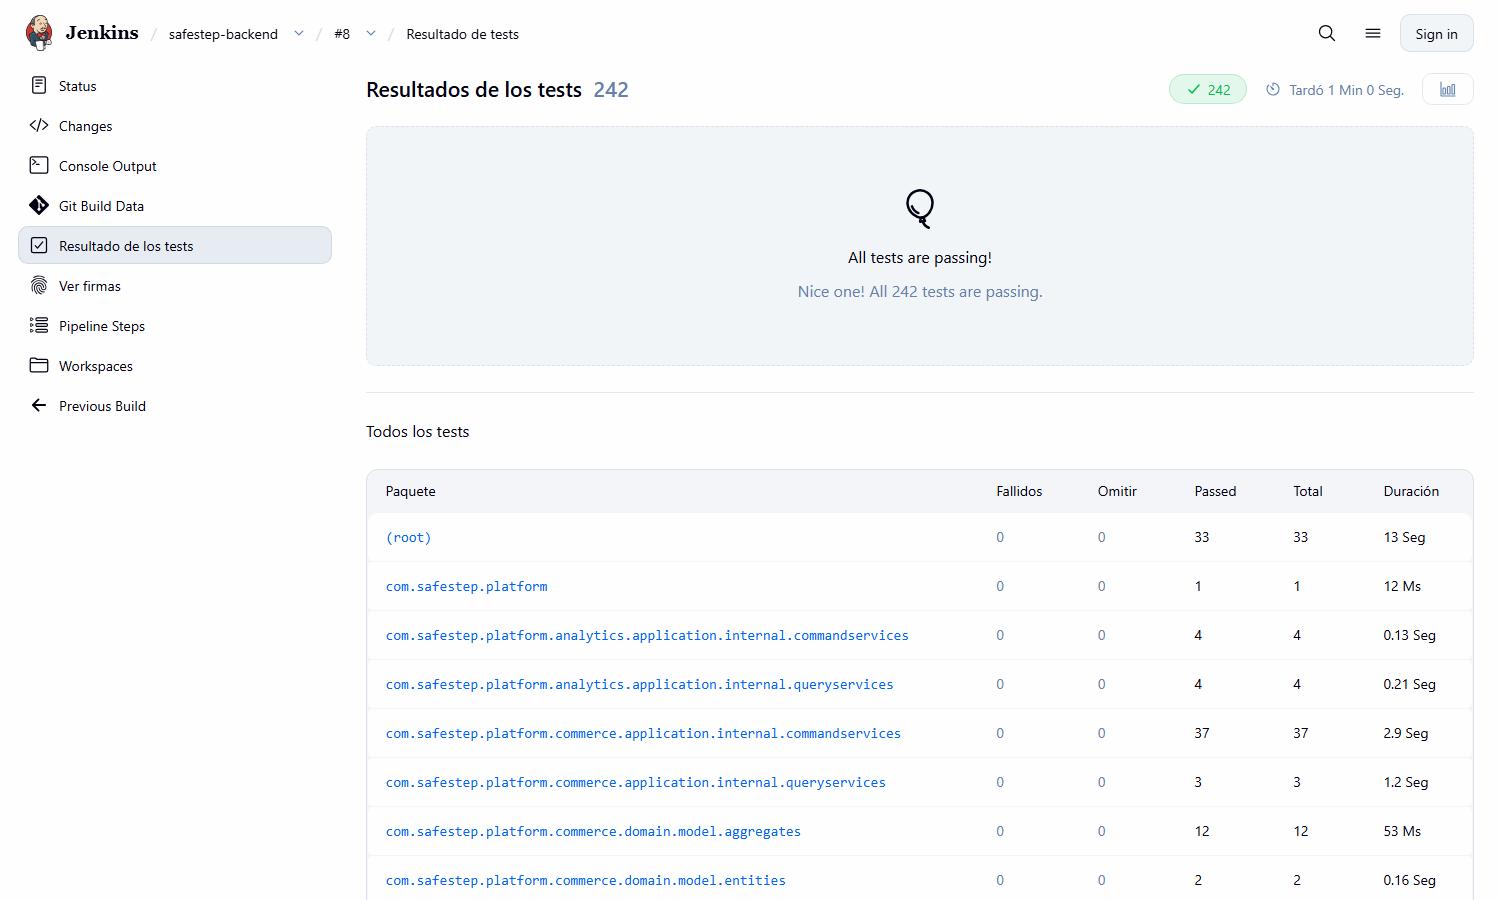
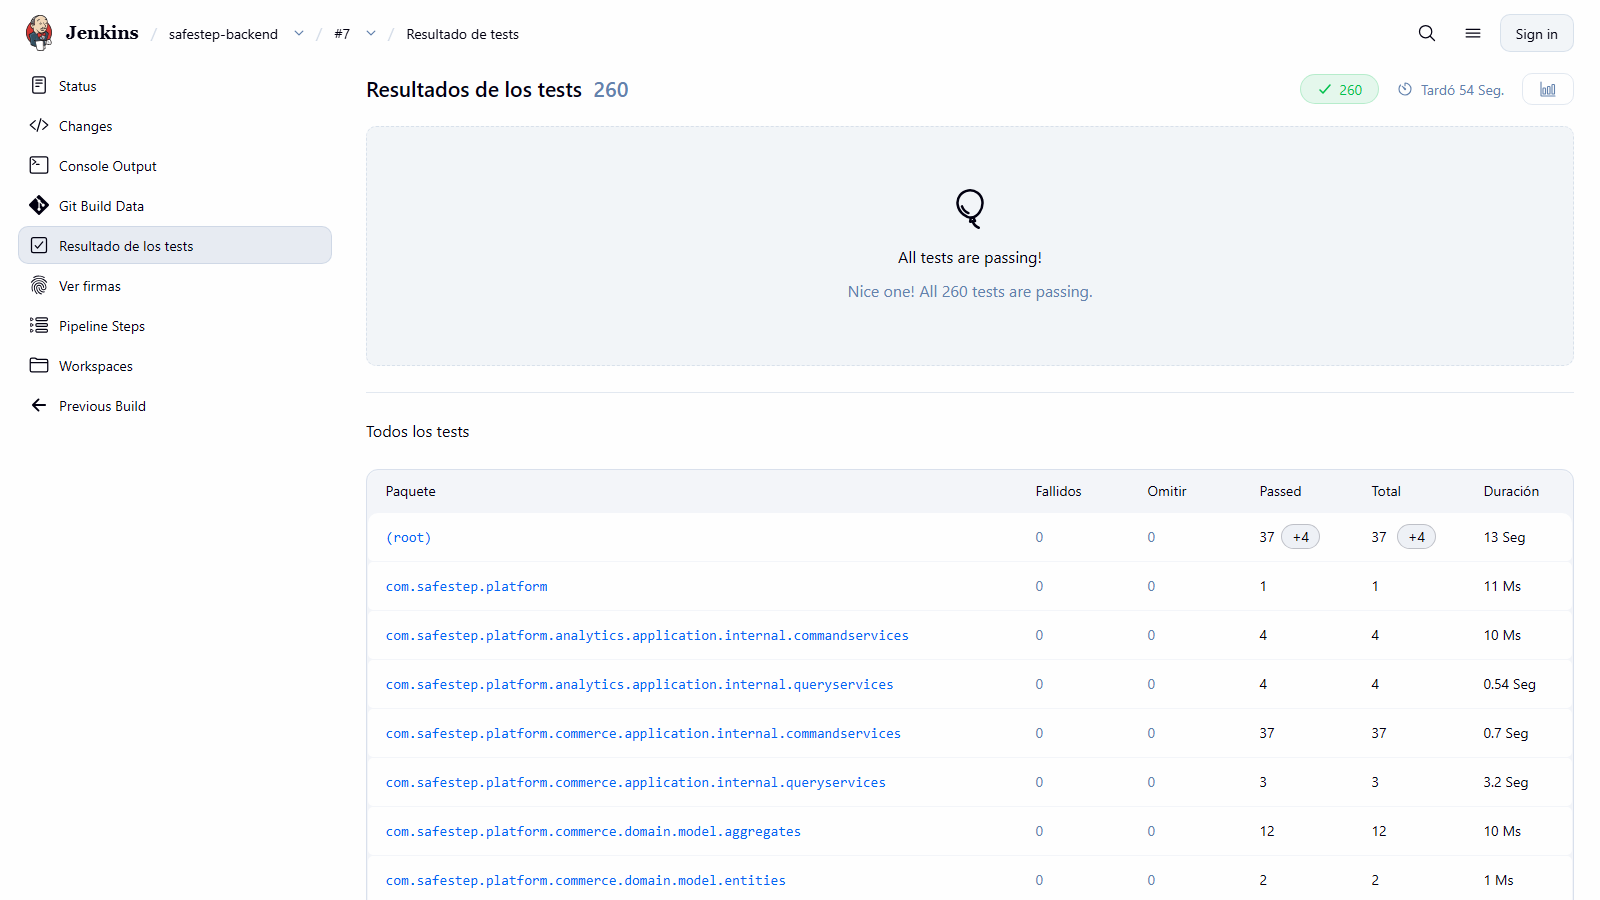
docs(report): update the test, coverage and pipeline figures to Jenkins build 7

diff --git a/markdown/content/chapter-6/6-1-Testing-Suites-&-Validation.md b/markdown/content/chapter-6/6-1-Testing-Suites-&-Validation.md
@@ -9,16 +9,16 @@ Esta sección documenta las suites de prueba que verifican SafeStep. La estrateg
 | BDD de aceptación | Cucumber-JVM 8.0.4 + Gherkin | `safeStept-backend/src/test/resources/features` | 33 escenarios (5 features) | 33 aprobados, 0 fallidos |
 | Sistema (web) | Selenium WebDriver 4.50 + Cucumber-JVM 8.0.4 | `safeStept-frontend/e2e-tests` | 15 escenarios (5 features) | 15 aprobados, 0 fallidos |
 
-Las 242 pruebas del backend que ejecuta Maven (209 unitarias y de integración con contexto de Spring, más los 33 escenarios BDD) se ejecutaron en Jenkins (ejecución #8) en 60.2 segundos, sin fallos ni omisiones. Antes de la TB1 el repositorio contaba con 54 métodos de prueba en 15 clases; las suites actuales reúnen 209 métodos en 41 clases. Entre ellas está `OpenApiDocumentationIntegrationTest`, con cuatro pruebas que verifican la documentación OpenAPI publicada (5.2.7.14).
+Las 260 pruebas del backend que ejecuta Maven (223 unitarias y de integración con contexto de Spring, más los 37 escenarios BDD) se ejecutaron en Jenkins (ejecución #7, 9 de noviembre de 2026) en 54 segundos, sin fallos ni omisiones. Antes de la TB1 el repositorio contaba con 54 métodos de prueba en 15 clases; las suites actuales reúnen 219 métodos en 43 clases. Desde la ejecución #6 (242 pruebas) se agregaron 18 pruebas: las de la política de recompensas (umbral de 70 % y mitad por cada repetición aprobada) y la que impide que los datos semilla vuelvan a tener caracteres dañados. Entre ellas está `OpenApiDocumentationIntegrationTest`, con cuatro pruebas que verifican la documentación OpenAPI publicada (5.2.7.14).
 
 <div align="center">
   <img src="../../assets/images/chapter-7/jenkins-test-result.png" alt="Resultado de pruebas en Jenkins"/>
-  <p><i><b>Figura 6.1.1.</b> Resultado de las 242 pruebas del backend en Jenkins (ejecución #8). <b>Fuente</b>: Elaboración propia</i></p>
+  <p><i><b>Figura 6.1.1.</b> Resultado de las 260 pruebas del backend en Jenkins (ejecución #7). <b>Fuente</b>: Elaboración propia</i></p>
 </div>
 
 <div align="center">
   <img src="../../assets/images/chapter-6/jenkins-tendencia-pruebas.png" alt="Tendencia de resultados de pruebas en Jenkins"/>
-  <p><i><b>Figura 6.1.2.</b> Tendencia de los resultados de pruebas en Jenkins: las 242 pruebas aprobadas en cada ejecución del entorno actual. <b>Fuente</b>: Elaboración propia</i></p>
+  <p><i><b>Figura 6.1.2.</b> Tendencia de los resultados de pruebas en Jenkins: el salto de 242 a 260 pruebas aprobadas entre las ejecuciones #6 y #7, sin fallos. <b>Fuente</b>: Elaboración propia</i></p>
 </div>
 
 <div align="center">
@@ -72,20 +72,20 @@ void redeemedCoupon_IsUsedOnlyOnce() {
 
 | Medición | Antes de la TB1 | Después |
 |----------|---------------------------|---------|
-| Cobertura de instrucciones (clases medidas) | 44.3 % | **93.8 %** (5,169 de 5,512 instrucciones) |
-| Pruebas del backend | 54 métodos | 242 pruebas |
+| Cobertura de instrucciones (clases medidas) | 44.3 % | **93.9 %** (5,237 de 5,580 instrucciones) |
+| Pruebas del backend | 54 métodos | 260 pruebas |
 
 | Bounded context | Clases medidas | Cobertura |
 |-----------------|----------------|-----------|
-| `analytics` | 3 | 100.0 % |
-| `gamification` | 6 | 100.0 % |
-| `commerce` | 3 | 98.6 % |
+| `analytics` | 5 | 100.0 % |
+| `gamification` | 9 | 100.0 % |
+| `commerce` | 7 | 98.6 % |
 | `shared` | 7 | 94.5 % |
-| `iam` | 17 | 92.0 % |
-| `simulation` | 11 | 91.2 % |
-| `profiles` | 7 | 62.1 % |
+| `iam` | 24 | 92.0 % |
+| `simulation` | 15 | 91.2 % |
+| `profiles` | 10 | 62.1 % |
 
-El contexto `profiles` es el único por debajo del 80 % por sí solo; el umbral se evalúa sobre el conjunto de clases medidas, y la cobertura de `profiles` queda como deuda técnica identificada. SonarQube, que cuenta las líneas y no las instrucciones, reporta 91.5 % de cobertura sobre 1,390 líneas medibles (ver 7.1.2).
+El contexto `profiles` es el único por debajo del 80 % por sí solo; el umbral se evalúa sobre el conjunto de clases medidas, y la cobertura de `profiles` queda como deuda técnica identificada. SonarQube, que cuenta las líneas y no las instrucciones, reporta 91.6 % de cobertura sobre 1,400 líneas medibles (ver 7.1.2).
 
 <div align="center">
   <img src="../../assets/images/chapter-6/jacoco-coverage-report.png" alt="Reporte de cobertura JaCoCo"/>

diff --git a/markdown/content/chapter-7/7-1-ContinuousIntegration.md b/markdown/content/chapter-7/7-1-ContinuousIntegration.md
@@ -76,16 +76,16 @@ Jenkins muestra además las entradas *Declarative: Checkout SCM* y *Declarative:
 | Métrica de SonarQube | Valor |
 |----------------------|-------|
 | Perfil de calidad de Java | *Sonar way extended* (337 reglas) |
-| Líneas de código | 12,858 (17,311 líneas en total) en 370 archivos |
+| Líneas de código | 12,885 (17,376 líneas en total) en 371 archivos |
 | Quality Gate (Sonar way) | **Aprobado** |
-| Cobertura | 91.5 % sobre 1,390 líneas medibles |
+| Cobertura | 91.6 % sobre 1,400 líneas medibles |
 | Duplicación | 0.9 % |
 | Vulnerabilidades | 1 (calificación de seguridad D; es el CSRF deshabilitado a propósito) |
 | Bugs | 0 (calificación de fiabilidad A) |
 | Code smells | 0 (calificación de mantenibilidad A) |
 | Hotspots de seguridad | 0 |
 
-Estas cifras corresponden a la ejecución #6 del entorno actual (versión `1.0.0` en SonarQube, 8 de noviembre de 2026) y reemplazan a las de la ejecución #8 del entorno anterior (9,964 líneas, 91.7 % de cobertura y 207 *code smells*), que se tomaron con otra versión del código y del servidor. Las líneas de código aumentaron porque la limpieza de Checkstyle (6.2.1.1) partió líneas largas con *google-java-format*, y los *code smells* bajaron a cero porque se corrigieron las 86 incidencias que aparecieron al cambiar al perfil *extended* (6.2.1.2).
+Estas cifras corresponden a la ejecución #7 del entorno actual (versión `1.0.0` en SonarQube, 9 de noviembre de 2026) y reemplazan a las de la ejecución #8 del entorno anterior (9,964 líneas, 91.7 % de cobertura y 207 *code smells*), que se tomaron con otra versión del código y del servidor. Las líneas de código aumentaron porque la limpieza de Checkstyle (6.2.1.1) partió líneas largas con *google-java-format*, y los *code smells* bajaron a cero porque se corrigieron las 86 incidencias que aparecieron al cambiar al perfil *extended* (6.2.1.2).
 
 El Quality Gate «Sonar way» evalúa únicamente el **código nuevo**. En el primer análisis del proyecto no existía código nuevo que evaluar y el gate aprobó, por lo que las incidencias existentes se trataron como deuda técnica y se listaron en lugar de ocultarse. En los análisis posteriores el gate evalúa el código nuevo con tres condiciones: cobertura de al menos 80 %, duplicación menor a 3 % y ninguna incidencia nueva. En la ejecución #6 el commit analizado es el mismo que ya había analizado SonarQube en la tercera tanda de correcciones (6.2.1.2), de modo que no hay código nuevo: el gate evalúa solo la condición de incidencias nuevas (0) y aprueba.
 
@@ -134,6 +134,13 @@ La corrección se verificó de tres formas: pruebas nuevas (una unitaria y tres 
 <div align="center">
   <img src="../../assets/images/chapter-7/jenkins-ejecucion-6-extended.png" alt="Vista de etapas de Jenkins con la ejecución 6 en verde y el Quality Gate aprobado"/>
   <p><i><b>Figura 7.1.10.</b> Vista de etapas del job <code>safestep-backend</code>: la ejecución #6 (arriba) pasa todas las etapas con el perfil <i>Sonar way extended</i>, con el Quality Gate <i>Passed</i> y las pruebas sin fallos; la #5 es la ejecución verde de la compuerta de estilo y la #4 la ejecución roja. <b>Fuente</b>: Elaboración propia</i></p>
+</div>
+
+**Ejecución tras la política de recompensas.** El 9 de noviembre de 2026 el backend incorporó en el servidor el umbral de aprobación de 70 % y la reducción a la mitad por cada repetición aprobada (`c79a1be`) y la reparación de los datos semilla (`b6707df`). La ejecución #7, sobre `main` con esas dos confirmaciones, pasó las diez etapas: 260 pruebas aprobadas (18 más que en la #6) sin fallos ni omisiones, cobertura de JaCoCo de 93.9 %, Quality Gate **Passed**, 0 *code smells* y la imagen publicada de nuevo en Docker Hub. Dura 5 min 8 s, más que la #6 porque hay más pruebas y la etapa de construcción de la imagen tardó 1 min 37 s.
+
+<div align="center">
+  <img src="../../assets/images/chapter-7/jenkins-ejecucion-7.png" alt="Vista de etapas de Jenkins con la ejecución 7 en verde"/>
+  <p><i><b>Figura 7.1.11.</b> Página del job <code>safestep-backend</code> tras la ejecución #7: tendencia de pruebas (de 242 a 260 aprobadas) y vista de etapas con todas las etapas en verde. <b>Fuente</b>: Elaboración propia</i></p>
 </div>
 
 **Cómo reproducir el entorno de CI:**

diff --git a/markdown/content/conclusiones.md b/markdown/content/conclusiones.md
@@ -14,7 +14,7 @@ Durante el Sprint 3 se implemento el backend de SafeStep con Spring Boot, Java, 
 
 Durante el Sprint 4 se fortalecio el producto con la implementacion de IAM y pagos con Stripe tanto en frontend como en backend. La autenticacion con JWT, las rutas protegidas, el manejo de perfil de usuario, la integracion con Stripe Checkout y la persistencia en PostgreSQL desplegado en Render hicieron que SafeStep pasara de ser una simulacion academica a una aplicacion web mas cercana a un entorno real. Este sprint tambien permitio validar flujos criticos como registro, inicio de sesion, compra de productos, confirmacion de pago y despliegue publico.
 
-Durante el Sprint 5 el foco se desplazo de construir funcionalidades a demostrar y proteger su calidad. Se incorporaron al Product Backlog el panel de administracion, la gestion de roles y el canje de cupones con SafeCoins (US57 a US61) junto con siete technical stories de pruebas e integracion continua (TS25 a TS31), y se construyeron tres suites automatizadas: 209 pruebas unitarias y de integracion, 33 escenarios BDD con Cucumber y 36 escenarios de API con Karate. La cobertura de instrucciones del codigo de aplicacion paso de 44.3 % a 93.8 % y el build exige ahora un minimo de 80 %. Las pruebas unitarias y BDD se ejecutan dentro de un pipeline de Jenkins que tambien exige el estilo de Google con Checkstyle (falla ante una sola infraccion), verifica la cobertura, analiza el codigo con SonarQube y empaqueta el backend; la ultima ejecucion termino en exito en 3 minutos y 58 segundos. Las pruebas de API se ejecutan contra una instancia local del backend. Ademas, el equipo desplego por su cuenta el frontend, el backend y la base de datos en Render (Static Site, Web Service con Docker y PostgreSQL 18), con CORS restringido al frontend publicado, y verifico los tres con pruebas de humo contra las URL publicas.
+Durante el Sprint 5 el foco se desplazo de construir funcionalidades a demostrar y proteger su calidad. Se incorporaron al Product Backlog el panel de administracion, la gestion de roles y el canje de cupones con SafeCoins (US57 a US61) junto con siete technical stories de pruebas e integracion continua (TS25 a TS31), y se construyeron tres suites automatizadas: 223 pruebas unitarias y de integracion, 37 escenarios BDD con Cucumber y 36 escenarios de API con Karate. La cobertura de instrucciones del codigo de aplicacion paso de 44.3 % a 93.9 % y el build exige ahora un minimo de 80 %. Las pruebas unitarias y BDD se ejecutan dentro de un pipeline de Jenkins que tambien exige el estilo de Google con Checkstyle (falla ante una sola infraccion), verifica la cobertura, analiza el codigo con SonarQube y empaqueta el backend; la ultima ejecucion termino en exito en 5 minutos y 8 segundos. Las pruebas de API se ejecutan contra una instancia local del backend. Ademas, el equipo desplego por su cuenta el frontend, el backend y la base de datos en Render (Static Site, Web Service con Docker y PostgreSQL 18), con CORS restringido al frontend publicado, y verifico los tres con pruebas de humo contra las URL publicas.
 
 El trabajo de verificacion tambien produjo hallazgos que el equipo decidio documentar y, cuando eran reales, corregir: la API respondia HTTP 500 en lugar de 400 ante un JSON mal formado, CORS estaba abierto a cualquier origen y SonarQube senalaba tres bugs menores. Los tres problemas se corrigieron y se verificaron con pruebas nuevas y con el pipeline; el Quality Gate, que evalua el codigo nuevo, llego a fallar una vez por una incidencia de estilo en el codigo recien escrito y volvio a aprobar tras corregirla. Checkstyle, que al inicio reportaba 8,128 observaciones de estilo, se llevo a cero infracciones en el backend y ahora detiene el pipeline si reaparece alguna. Quedan como puntos abiertos que SonarQube mantiene una vulnerabilidad por la proteccion CSRF deshabilitada, aceptable en una API con JWT, que el modulo de perfiles tiene una cobertura de 62.1 %, y que el plan gratuito de la base de datos en Render caduca el 7 de noviembre de 2026 y el backend gratuito se suspende por inactividad y tarda varios minutos en despertar.
 

diff --git a/markdown/content/chapter-8/8-1-Experiment-Planning.md b/markdown/content/chapter-8/8-1-Experiment-Planning.md
@@ -8,7 +8,7 @@ Este capítulo aplica el enfoque **Experiment-Driven Product Development (XDPD)*
 
 ## 8.1.1. As-Is Summary
 
-**El producto hoy.** SafeStep es una aplicación web (Angular 21 y Spring Boot, publicada en Render) para practicar primeros auxilios mediante simulaciones con retroalimentación inmediata. El catálogo contiene 18 simulaciones de cuatro pasos cada una (8 de nivel Básico, 6 Intermedio y 4 Avanzado, de 9 a 22 minutos), 14 misiones, 18 insignias, una tienda de 32 productos en 14 categorías y 6 cupones de descuento. Existe un panel de administración y una página de estadísticas personales. La calidad técnica está documentada en el capítulo 6: 242 pruebas automatizadas en el backend, 15 escenarios de pruebas de sistema que recorren el flujo completo, y un pipeline de integración continua (capítulo 7).
+**El producto hoy.** SafeStep es una aplicación web (Angular 21 y Spring Boot, publicada en Render) para practicar primeros auxilios mediante simulaciones con retroalimentación inmediata. El catálogo contiene 18 simulaciones de cuatro pasos cada una (8 de nivel Básico, 6 Intermedio y 4 Avanzado, de 9 a 22 minutos), 14 misiones, 18 insignias, una tienda de 32 productos en 14 categorías y 6 cupones de descuento. Existe un panel de administración y una página de estadísticas personales. La calidad técnica está documentada en el capítulo 6: 260 pruebas automatizadas en el backend, 15 escenarios de pruebas de sistema que recorren el flujo completo, y un pipeline de integración continua (capítulo 7).
 
 **Cómo funciona el bucle de incentivos.** Estas son las reglas vigentes, tomadas del código:
 

diff --git a/markdown/content/chapter-6/6-2-Static-testing-&-Verification.md b/markdown/content/chapter-6/6-2-Static-testing-&-Verification.md
@@ -669,6 +669,7 @@ Para la regla `typescript:S8786` se reescribió `formatPrice` sin esa expresión
 - Las vulnerabilidades pasaron de 2 a 1 (CORS corregido en la etapa 07) y los bugs de 3 a 0 (etapa 08). La incidencia de seguridad que permanece (`java:S4502`) es una decisión de diseño documentada.
 - El Quality Gate cumplió su función: detuvo el código nuevo sin pruebas (etapa 01 y F1) y el código nuevo con una incidencia (etapas 05 y 09), y aprobó las etapas siguientes una vez corregido.
 - Las 86 incidencias de mantenibilidad del backend y las 11 incidencias del frontend se corrigieron el 8 de noviembre con el perfil *Sonar way extended*, en cuatro mediciones con las 242 pruebas del backend en verde. Del backend solo permanece la incidencia de seguridad que es una decisión de diseño.
+- Una medición posterior, hecha el 9 de noviembre con el backend que ya aplica la política de recompensas en el servidor (ejecución #7), confirmó que el estado se mantiene: 260 pruebas aprobadas, 91.6 % de cobertura según SonarQube, 0 *code smells*, 0 bugs, la misma incidencia de seguridad documentada y Quality Gate aprobado (7.1.2).
 - Queda como limitación del frontend su cobertura de pruebas (0.7 %).
 
 ## 6.2.2. Reviews

diff --git a/markdown/content/chapter-5/5-2-5-Implemented-Native-Mobile-Application-Evidence.md b/markdown/content/chapter-5/5-2-5-Implemented-Native-Mobile-Application-Evidence.md
@@ -104,7 +104,7 @@ La aplicación consume estos *endpoints* de la API REST (5.2.7), con la URL base
 
 ### 5.2.5.3. Evidencia de pruebas
 
-Las pruebas se ejecutaron el 8 de noviembre de 2026. Las instrumentadas se corrieron en un emulador de Android Studio (Medium Phone, API 37) contra el backend de `main` (259 pruebas aprobadas, 6.1) levantado localmente, con una base de datos PostgreSQL temporal y la aplicación web sirviendo las imágenes.
+Las pruebas se ejecutaron el 8 de noviembre de 2026. Las instrumentadas se corrieron en un emulador de Android Studio (Medium Phone, API 37) contra el backend de `main` (260 pruebas aprobadas, 6.1) levantado localmente, con una base de datos PostgreSQL temporal y la aplicación web sirviendo las imágenes.
 
 | Tipo | Herramienta | Qué verifica | Resultado |
 |------|-------------|--------------|-----------|

diff --git a/markdown/content/chapter-7/7-2-Continuous-Delivery.md b/markdown/content/chapter-7/7-2-Continuous-Delivery.md
@@ -308,6 +308,7 @@ Para ejecutarla necesita una base PostgreSQL y las mismas variables de entorno d
 | #4 | FAILURE | Commit temporal con una infracción deliberada de Checkstyle: el pipeline se detiene en *Validate Checkstyle* y omite las etapas siguientes (7.1.2) |
 | #5 | SUCCESS | Backend sin infracciones de Checkstyle: las diez entradas en verde (7.1.2) |
 | #6 | SUCCESS | Perfil *Sonar way extended* y 86 incidencias corregidas (6.2.1.2): 242 pruebas, Quality Gate aprobado y la imagen publicada de nuevo en Docker Hub, en 3 min 58 s (7.1.2) |
+| #7 | SUCCESS | Política de recompensas en el servidor y datos semilla reparados: 260 pruebas, Quality Gate aprobado y la imagen publicada de nuevo en Docker Hub, en 5 min 8 s (7.1.2) |
 
 **Limitaciones y mejoras identificadas.**
 
